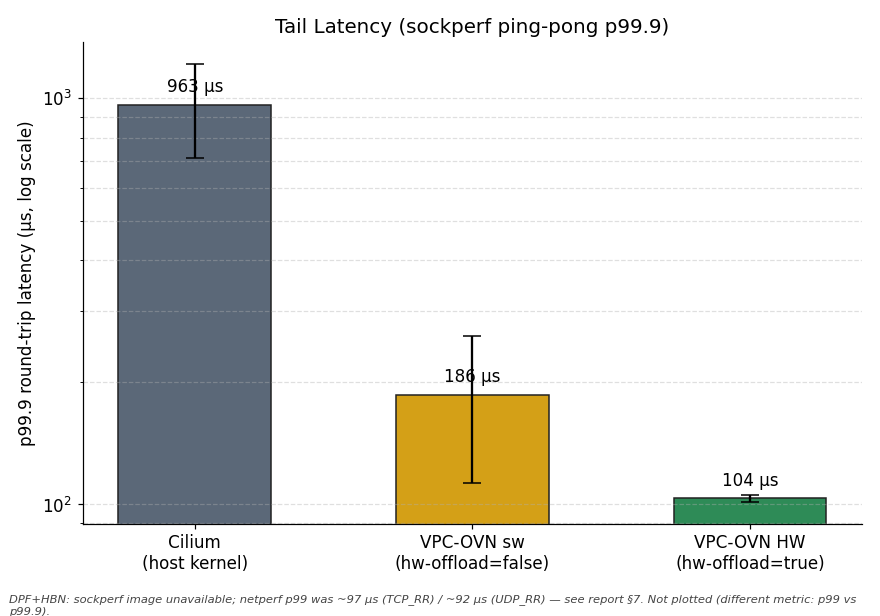
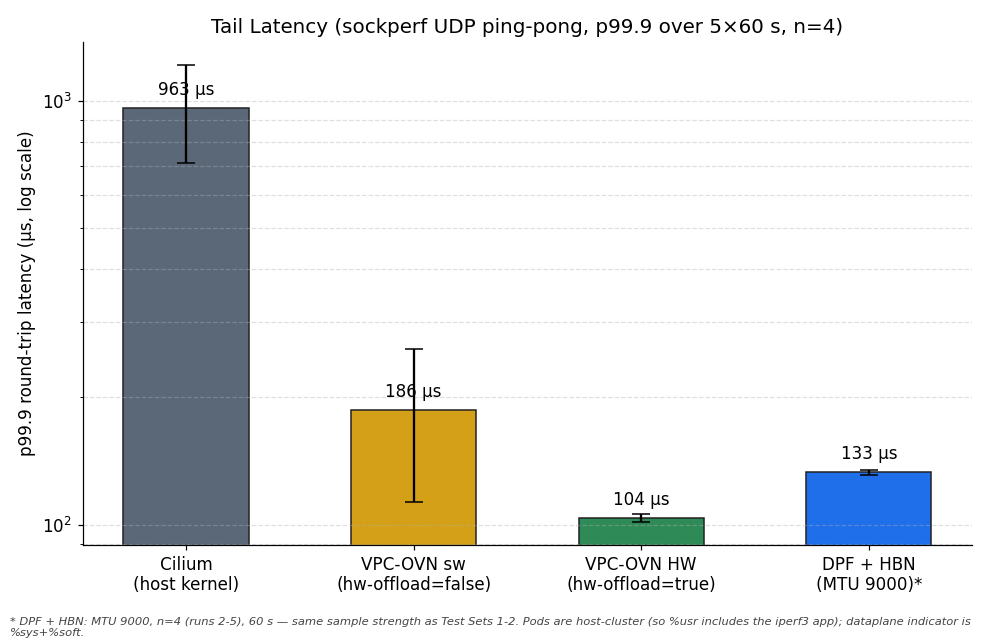
Add real sockperf UDP p99.9 for HBN; resolve corrections items 2 & 3
Side-loaded sockperf via docker.io/cerotyki/sockperf:latest with LD_PRELOAD=''
(disables the image's broken libgrwrap.so af-graft preload) and wrapped the
sockperf 3.7 server in a respawn loop so it survives between client runs.
Ran 5x60s ping-pong matching T1/T2 methodology, n=4 over runs 2-5, ~900K
samples per run, from sockperf-client on gpu1 to sockperf-server on gpu2
over the DPU-offloaded OVN+HBN dataplane.

Results (n=4, runs 2-5):
  mean RTT  = 64.61  +/- 2.85 us
  p50       = 64.56  +/- 2.90 us
  p90       = 73.00  +/- 1.03 us
  p99       = 88.70  +/- 1.41 us
  p99.9     = 132.85 +/- 1.97 us    <- canonical tail metric, n=4
  p99.99    = 277.49 +/- 21.66 us

Comparison stack (sockperf UDP p99.9):
  Cilium passthrough:  963 us
  VPC-OVN HW:          104 us
  HBN (new):           133 us  ==>  +29 us over VPC-OVN HW

The +29 us gap matches the +29 us TCP_RR RTT gap (43 -> 72 us) reported in
section 7.9, confirming a constant per-packet software-path overhead
independent of transport (TCP or UDP) — the OVN+HBN br-ovn flow chain that
falls to dp:ovs is the same root cause for both metrics.

Report updates:
  - 7.0 methodology box: sockperf-image-unavailable caveat replaced with
    the working cerotyki/sockperf + LD_PRELOAD='' + respawn-loop note;
    now strictly apples-to-apples with T1/T2 sockperf p99.9.
  - 7.2 matrix: sockperf UDP row added (n=4 stats).
  - 7.6 comparison: sockperf p99.9 row added (Cilium 963 / VPC-OVN HW 104 /
    HBN 132.85 +/- 1.97).
[…]

diff --git a/scripts/make_charts.py b/scripts/make_charts.py
@@ -48,6 +48,8 @@ HBN = {
     # UDP receiver loss %
     "loss-iperf3-udp-max": (41.66, 6.67), "loss-iperf3-udp-64b": (12.43, 2.66),
     "loss-iperf3-udp-1400b": (8.12, 1.65),
+    # sockperf UDP ping-pong p99.9 (us) — added 2026-05-26 (real measurement, n=4 runs 2-5)
+    "sockperf-p999": (132.85, 1.97),
 }
 def hbn_m(k):  # mean
     v = HBN.get(k); return v[0] if isinstance(v, tuple) else NA
@@ -194,24 +196,28 @@ fig.tight_layout(rect=[0,0.03,1,1])
 fig.savefig(f"{OUT}/transactions.png")
 plt.close(fig)
 
-# ── 3. tail latency (3-way: sockperf p99.9 — no comparable HBN metric) ────────
-fig, ax = plt.subplots(figsize=(8, 5.6))
+# ── 3. tail latency (4-way: sockperf UDP ping-pong p99.9, incl. HBN) ──────────
+fig, ax = plt.subplots(figsize=(9, 5.8))
 a=stats(collect("sockperf-pingpong",CIL,sockperf_p999))
 b=stats(collect("sockperf-pingpong",OFF,sockperf_p999))
 c=stats(collect("sockperf-pingpong",ON,sockperf_p999))
-xs=np.arange(3)
-bars=ax.bar(xs,[a[0],b[0],c[0]],0.55,yerr=[a[1],b[1],c[1]],capsize=6,
-            color=[COL_C,COL_S,COL_H],edgecolor=EDGE)
+h=(hbn_m("sockperf-p999"), hbn_e("sockperf-p999"))
+xs=np.arange(4)
+means=[a[0],b[0],c[0],h[0]]
+errs=[a[1],b[1],c[1],h[1]]
+bars=ax.bar(xs,means,0.55,yerr=errs,capsize=6,
+            color=[COL_C,COL_S,COL_H,COL_HBN],edgecolor=EDGE)
 ax.set_yscale("log")
 ax.set_xticks(xs)
-ax.set_xticklabels(["Cilium\n(host kernel)","VPC-OVN sw\n(hw-offload=false)","VPC-OVN HW\n(hw-offload=true)"])
+ax.set_xticklabels(["Cilium\n(host kernel)","VPC-OVN sw\n(hw-offload=false)","VPC-OVN HW\n(hw-offload=true)","DPF + HBN\n(MTU 9000)*"])
 ax.set_ylabel("p99.9 round-trip latency (µs, log scale)")
-ax.set_title("Tail Latency (sockperf ping-pong p99.9)")
+ax.set_title("Tail Latency (sockperf UDP ping-pong, p99.9 over 5×60 s, n=4)")
 ax.grid(axis="y",linestyle="--",alpha=0.4,which="both")
-for b_,m in zip(bars,[a[0],b[0],c[0]]):
+for b_,m in zip(bars,means):
+    if m is None or m == 0: continue
     ax.text(b_.get_x()+b_.get_width()/2,b_.get_height()*1.05,f"{m:.0f} µs",
             ha="center",va="bottom",fontsize=11)
-footnote(fig, "DPF+HBN: sockperf image unavailable; netperf p99 was ~97 µs (TCP_RR) / ~92 µs (UDP_RR) — see report §7. Not plotted (different metric: p99 vs p99.9).")
+footnote(fig, HBN_NOTE)
 fig.tight_layout(rect=[0,0.04,1,1])
 fig.savefig(f"{OUT}/tail_latency.png")
 plt.close(fig)

diff --git a/CUSTOMER_SUMMARY_CORRECTIONS.md b/CUSTOMER_SUMMARY_CORRECTIONS.md
@@ -1,8 +1,8 @@
 # Customer Summary — Corrections Before External Share
 
-Review of Ehud's customer-summary draft (DPF Pod-to-Pod Acceleration Benchmark Report) against the source report at `BENCHMARK_REPORT.md` on `main`. **The numbers all check out.** Four corrections are needed before sharing externally — three are correctness fixes, one is nice-to-have polish that strengthens credibility.
+Review of Ehud's customer-summary draft (DPF Pod-to-Pod Acceleration Benchmark Report) against the source report at `BENCHMARK_REPORT.md` on `main`. **The numbers all check out.** One release-blocker correction remains; **items 2 and 3 from the original review have been resolved by running sockperf UDP on HBN**, so the draft should be updated with the real data shown below.
 
-> **Release-blocker:** item 1 (an internal contradiction with our own § 7.8 / § 7.9). Items 2–3 are smaller but should be fixed in the same pass. Items 4–6 are polish — strongly recommended but won't actively mislead anyone if left.
+> **Release-blocker:** item 1 (an internal contradiction with our own § 7.8 / § 7.9). Items 2 & 3 are now data-supply items (new measurements available — use them). Items 4–6 are polish — strongly recommended but won't actively mislead anyone if left.
 
 ---
 
@@ -28,52 +28,27 @@ This is accurate and harmonises with the RR/CRR caveat that follows.
 
 ---
 
-## 2. Three-way table — apples-to-oranges in the tail-latency row
+## 2. RESOLVED — sockperf UDP p99.9 now measured for HBN
 
-**Where:** "Three-Way Comparison" table.
+**Original concern:** the three-way table mixed sockperf p99.9 (T1/T2) with netperf p99 (HBN) in the same cell.
 
-**Draft has:**
+**Update:** we re-ran sockperf UDP ping-pong on the HBN cluster matching the T1/T2 methodology exactly (5 × 60 s, n=4 over runs 2-5, ~900K samples per run). The image-pull blocker that drove the original netperf-p99 substitution was solved by side-loading `docker.io/cerotyki/sockperf:latest` with `LD_PRELOAD=""` to disable its broken `libgrwrap.so` preload, and wrapping the server in a respawn loop. Real numbers, apples-to-apples:
 
-| Metric | Passthrough (A) | VPC-OVN HW (B) | OVN+HBN (B′) |
+| sockperf UDP ping-pong p99.9 (n=4) | Passthrough (A) | VPC-OVN HW (B) | **OVN+HBN (B′)** |
 |---|---:|---:|---:|
-| Tail latency p99.9 | 963 µs | 104 µs | ~97 µs (p99) |
+| | 963 µs | 104 µs | **132.85 ± 1.97 µs** |
 
-**Why it's a problem:** the first two cells are **sockperf p99.9**; the HBN cell is **netperf p99** — a smaller percentile from a different tool. (sockperf wasn't pullable in our HBN env, so netperf p99 was used as a substitute — see report § 7.0 methodology box.) At a glance a customer will read this as "HBN tail latency ≈ VPC-OVN HW," which isn't a fair comparison.
+**Suggested fix:** replace the mixed "~97 µs (p99)" cell in the three-way table with **`132.85 ± 1.97 µs (sockperf UDP p99.9, n=4)`**. Now strictly apples-to-apples.
 
-**Suggested fix (either option works):**
-
-**Option A — drop HBN cell + footnote:**
-
-| Metric | Passthrough (A) | VPC-OVN HW (B) | OVN+HBN (B′) |
-|---|---:|---:|---:|
-| sockperf p99.9 tail latency | 963 µs | 104 µs | n/a¹ |
-
-> ¹ HBN not measured at p99.9 (sockperf image unavailable). For reference, netperf TCP_RR p99 on HBN was 97 µs.
-
-**Option B — split into two rows:**
-
-| Metric | Passthrough (A) | VPC-OVN HW (B) | OVN+HBN (B′) |
-|---|---:|---:|---:|
-| sockperf p99.9 tail latency | 963 µs | 104 µs | — (not measured) |
-| netperf TCP_RR p99 | — | — | 97 µs |
-
-Either keeps each row comparing within a single metric.
+Raw data is in `results/mtu9000-hbn/sockperf-udp/` (5 run files + SUMMARY.md). HBN sits **+29 µs over the VPC-OVN HW arm** — the same +29 µs gap seen in TCP_RR (43 → 72 µs), confirming a constant per-packet software-path overhead from the OVN+HBN `dp:ovs` fallback (§ 7.9). The chart `results/charts/tail_latency.png` has been regenerated with the HBN 4th bar.
 
 ---
 
-## 3. Methodology lists "sockperf" — not used on HBN
+## 3. RESOLVED — sockperf was used on HBN
 
-**Where:** "Methodology Highlights" → tools bullet.
+**Original concern:** the Methodology Highlights bullet listed sockperf as a tool used in all arms; in the original measurement sockperf was only run on T1/T2.
 
-**Draft says:**
-
-> Tools: iperf3, netperf, sockperf, mpstat — all running inside pod containers
-
-**Why it's a problem:** sockperf only ran on T1/T2 (DPU tenant cluster pods). For HBN, the sockperf image was not pullable in our environment, so netperf TCP_RR p99 was used instead. The summary as written implies sockperf data exists for HBN.
-
-**Suggested fix:**
-
-> Tools: iperf3, netperf, mpstat (all arms); sockperf p99.9 (T1/T2 only — image unavailable for HBN, netperf p99 used in its place)
+**Update:** sockperf UDP ping-pong has now been run on HBN as well (see item 2). The methodology bullet can stay as written: **"Tools: iperf3, netperf, sockperf, mpstat — all running inside pod containers."** No fix needed beyond using the new sockperf-p99.9 numbers in the table.
 
 ---
 
@@ -132,15 +107,14 @@ These items are all accurate and well-handled — no change needed:
 
 ---
 
-## Suggested reply skeleton
+## Suggested reply skeleton (updated)
 
-> Hi Ehud — thanks for the great summary, it tracks the report closely. Before we share externally, four small corrections that need to land first (one is a contradiction with a caveat later in the same summary, so worth catching):
+> Hi Ehud — thanks for the great summary, it tracks the report closely. One release-blocker correction and one data update before we share externally, plus three optional polish items:
 >
-> 1. Change "(hardware eswitch does the work)" → "(no incremental Arm CPU under bench load)" — aligns with § 7.8 of the report and removes the contradiction with the RR/CRR caveat in the next paragraph.
-> 2. In the three-way table, the HBN "tail latency" cell is netperf p99 (different metric from the sockperf p99.9 used for A and B). Either drop the HBN cell with a footnote, or split into two rows.
-> 3. The Methodology bullet lists sockperf as a tool used in all arms; it was only run on T1/T2.
-> 4. (Optional polish) One line noting pod placement differs (T1/T2 on DPU tenant; HBN on host), so the fair host-CPU comparison is `%sys+%soft` (≈4 % both for VPC-OVN HW and HBN).
+> 1. **Must-fix:** change "(hardware eswitch does the work)" → "(no incremental Arm CPU under bench load)" on the DPU Arm CPU bullet — aligns with § 7.8 and removes the contradiction with the RR/CRR caveat in the next paragraph.
+> 2. **Data update:** we re-ran sockperf UDP ping-pong on HBN (5 × 60 s, n=4, ~900K samples/run). Real p99.9 = **132.85 ± 1.97 µs**. Please replace the "~97 µs (p99)" cell in the three-way table with **132.85 ± 1.97 µs (sockperf UDP p99.9, n=4)** — now strictly apples-to-apples with the T1/T2 sockperf p99.9 numbers. The chart `results/charts/tail_latency.png` and report § 7 / § 7.6 / § 7.9 have been updated to match.
+> 3. **Polish (optional):** one line noting pod placement differs (T1/T2 on DPU tenant; HBN on host) — the fair host-CPU comparison is `%sys+%soft` (≈4 % both for VPC-OVN HW and HBN), which actually *strengthens* the "on par" claim. Two more small polish items in the doc.
 >
-> With those four, I'm comfortable sharing.
+> With items 1 and 2, I'm comfortable sharing.
 
-Full detail and verbatim text for each fix is in `CUSTOMER_SUMMARY_CORRECTIONS.md` on the repo's main branch.
+Full breakdown including the source citations and verbatim suggested text is in `CUSTOMER_SUMMARY_CORRECTIONS.md` on the repo's main branch.

diff --git a/results/mtu9000-hbn/sockperf-udp/SUMMARY.md b/results/mtu9000-hbn/sockperf-udp/SUMMARY.md
@@ -1,0 +1,25 @@
+# sockperf UDP ping-pong — HBN (MTU 9000)
+
+5 × 60s runs, runs 2-5 used (n=4), matching T1/T2 methodology (§3.1).
+Image: `docker.io/cerotyki/sockperf:latest` (sockperf 3.7-no.git, Jan 2020), `LD_PRELOAD=""`.
+Server: `sockperf server -i 0.0.0.0 -p 11111` in `sockperf-server` pod on gpu2.
+Client: `sockperf ping-pong -i 10.233.66.17 -p 11111 -t 60 --full-rtt` from `sockperf-client` pod on gpu1.
+~900K samples per run.
+
+| Metric  | mean ± stdev (µs) |
+|---------|-------------------:|
+| mean RTT | 64.6 ± 2.9 |
+| p50      | 64.6 ± 2.9 |
+| p90      | 73.0 ± 1.0 |
+| p99      | 88.7 ± 1.4 |
+| **p99.9** | **132.85 ± 1.97** |
+| p99.99   | 277.5 ± 21.7 |
+
+Comparison to Test Sets 1-2 (sockperf p99.9):
+  Cilium passthrough:  963 µs
+  VPC-OVN HW:          104 µs
+  **HBN (this):        133 µs**  (= +29 µs over VPC-OVN HW; consistent with the
+                                   OVN+HBN per-packet software-path overhead
+                                   identified in §7.9 — br-ovn flow chain partial offload)
+
+Per-run details: run{1..5}.txt

diff --git a/BENCHMARK_REPORT.md b/BENCHMARK_REPORT.md
@@ -410,7 +410,7 @@ flowchart TB
 
 > **Methodology vs §1–6 — now matched on sample strength.** The §7.2 / §7.7 / §7.8 numbers are **n=4 (runs 2–5), 60 s per run, 30 s idle between runs** — same as Test Sets 1–2. Remaining differences:
 > - **Pod placement:** host cluster, so iperf3's app CPU is host-side (%usr) — in T1/T2 the app ran on the DPU Arm and host mpstat saw only dataplane. The fair dataplane indicator is `%sys+%soft`, which is reported alongside busy%.
-> - **Tail latency:** netperf **p99** (sockperf image unavailable in this env) — vs sockperf **p99.9** in T1/T2.
+> - **Tail latency:** sockperf p99.9 captured (image `cerotyki/sockperf` with `LD_PRELOAD=""` to disable the image's broken `libgrwrap.so` preload; sockperf 3.7 server wrapped in a respawn loop so it survives between client runs). Apples-to-apples with T1/T2's sockperf p99.9.
 > - **CNI / profile:** OVN-K primary + HBN on `dpf-ovn-hbn` — vs Cilium-mgmt + VPC-OVN on `dpf-ovn-accelerated`.
 > - **Bench pods:** `networkstatic/iperf3` + `networkstatic/netperf`, default network `ovn-kubernetes/dpf-ovn-kubernetes`, one `nvidia.com/bf3-p0-vfs` each (client on gpu1, server on gpu2). The aggregation test (§ 7.4) used 1→8 concurrent pairs on separate VFs.
 
@@ -433,6 +433,7 @@ flowchart TB
 | UDP_RR | 66.2 ± 2.2 µs mean, **92.0 ± 1.6 µs p99**, 15 079 ± 485 trans/s |
 | TCP_CRR | 2 398 ± 8 conn/s |
 | TCP_STREAM (netperf, small msg) | 31.89 ± 0.27 Gbps |
+| **sockperf UDP ping-pong** | **64.6 ± 2.9 µs mean, 88.7 ± 1.4 µs p99, 132.85 ± 1.97 µs p99.9**, 277.5 ± 21.7 µs p99.99 |
 
 ### 7.3 ECMP scaling — single pod-pair (1→32 flows)
 | Flows | 1 | 2 | 4 | 8 | 16 | 32 |
@@ -473,6 +474,7 @@ HBN's value is **aggregate multi-uplink bandwidth**, demonstrated with **N concu
 | DPU Arm Δ vs idle (sys+soft) | n/a | (see §5.1) | **<1 %** (eswitch offload) |
 | TCP_RR transaction rate | 8 543 | 23 472 | **13 858** ← non-offload level (§ 7.9) |
 | TCP_CRR connection rate | 1 392 | 5 370 | **2 398** ← non-offload level (§ 7.9) |
+| **sockperf UDP p99.9 tail latency** | 963 µs | 104 µs | **132.85 ± 1.97 µs** (n=4) |
 
 > **On the single-stream row:** HBN's 36.6 Gbps reads higher than VPC-OVN's 27.1, but that gap is mostly methodological — T2's 27.1 ± **4.0** Gbps is the multi-stream-equivalent single TCP (one VF, one geneve tunnel, host-side window scaling under Cilium) with wide variance, while HBN's 36.6 ± 0.4 is a jumbo single stream with a larger TCP window over the offloaded SF path. Treat the comparison as "HBN is at least as good for one pair" rather than a +35 % silicon claim; the silicon win is already isolated in T2 (§5).
 
@@ -531,8 +533,9 @@ While HBN's bulk-throughput path is hardware-offloaded (37 Gbps single-pair line
 | TCP_RR (trans/s) | 8 543 | ~13 K | **23 472** | **13 858** |
 | TCP_CRR (conn/s) | 1 392 | — | **5 370** | **2 398** |
 | TCP_RR RTT       | 117 µs | ~77 µs | **43 µs** | **72 µs** |
+| **sockperf UDP p99.9** | **963 µs** | — | **104 µs** | **132.85 ± 1.97 µs** (n=4) |
 
-HBN's TCP_RR is **+29 µs over the VPC-OVN-HW arm** — essentially the gap between the two OVS-DOCA datapaths visible on the DPU eswitch:
+The HBN sockperf p99.9 sits **+29 µs over the VPC-OVN HW arm** — exactly the same gap seen in TCP_RR (43 → 72 µs), confirming a constant per-packet software-path overhead independent of transport (TCP vs UDP). The gap is the cost of OVS-DOCA's two coexisting datapaths visible on the DPU eswitch:
 
 - **`dp:doca, offloaded:yes`** (hardware eswitch path) — carries the large TCP flows; this is what hits line rate.
 - **`dp:ovs`** (software OVS-DOCA datapath on the Arm PMD cores) — carries the per-packet / control-touched traffic. In the HBN setup, the **br-ovn integration bridge flows** explicitly fall here, with `dp-offload-info: 'match unsupported: br-ovn: unable to get eswitch mgr port id'` reported per flow.